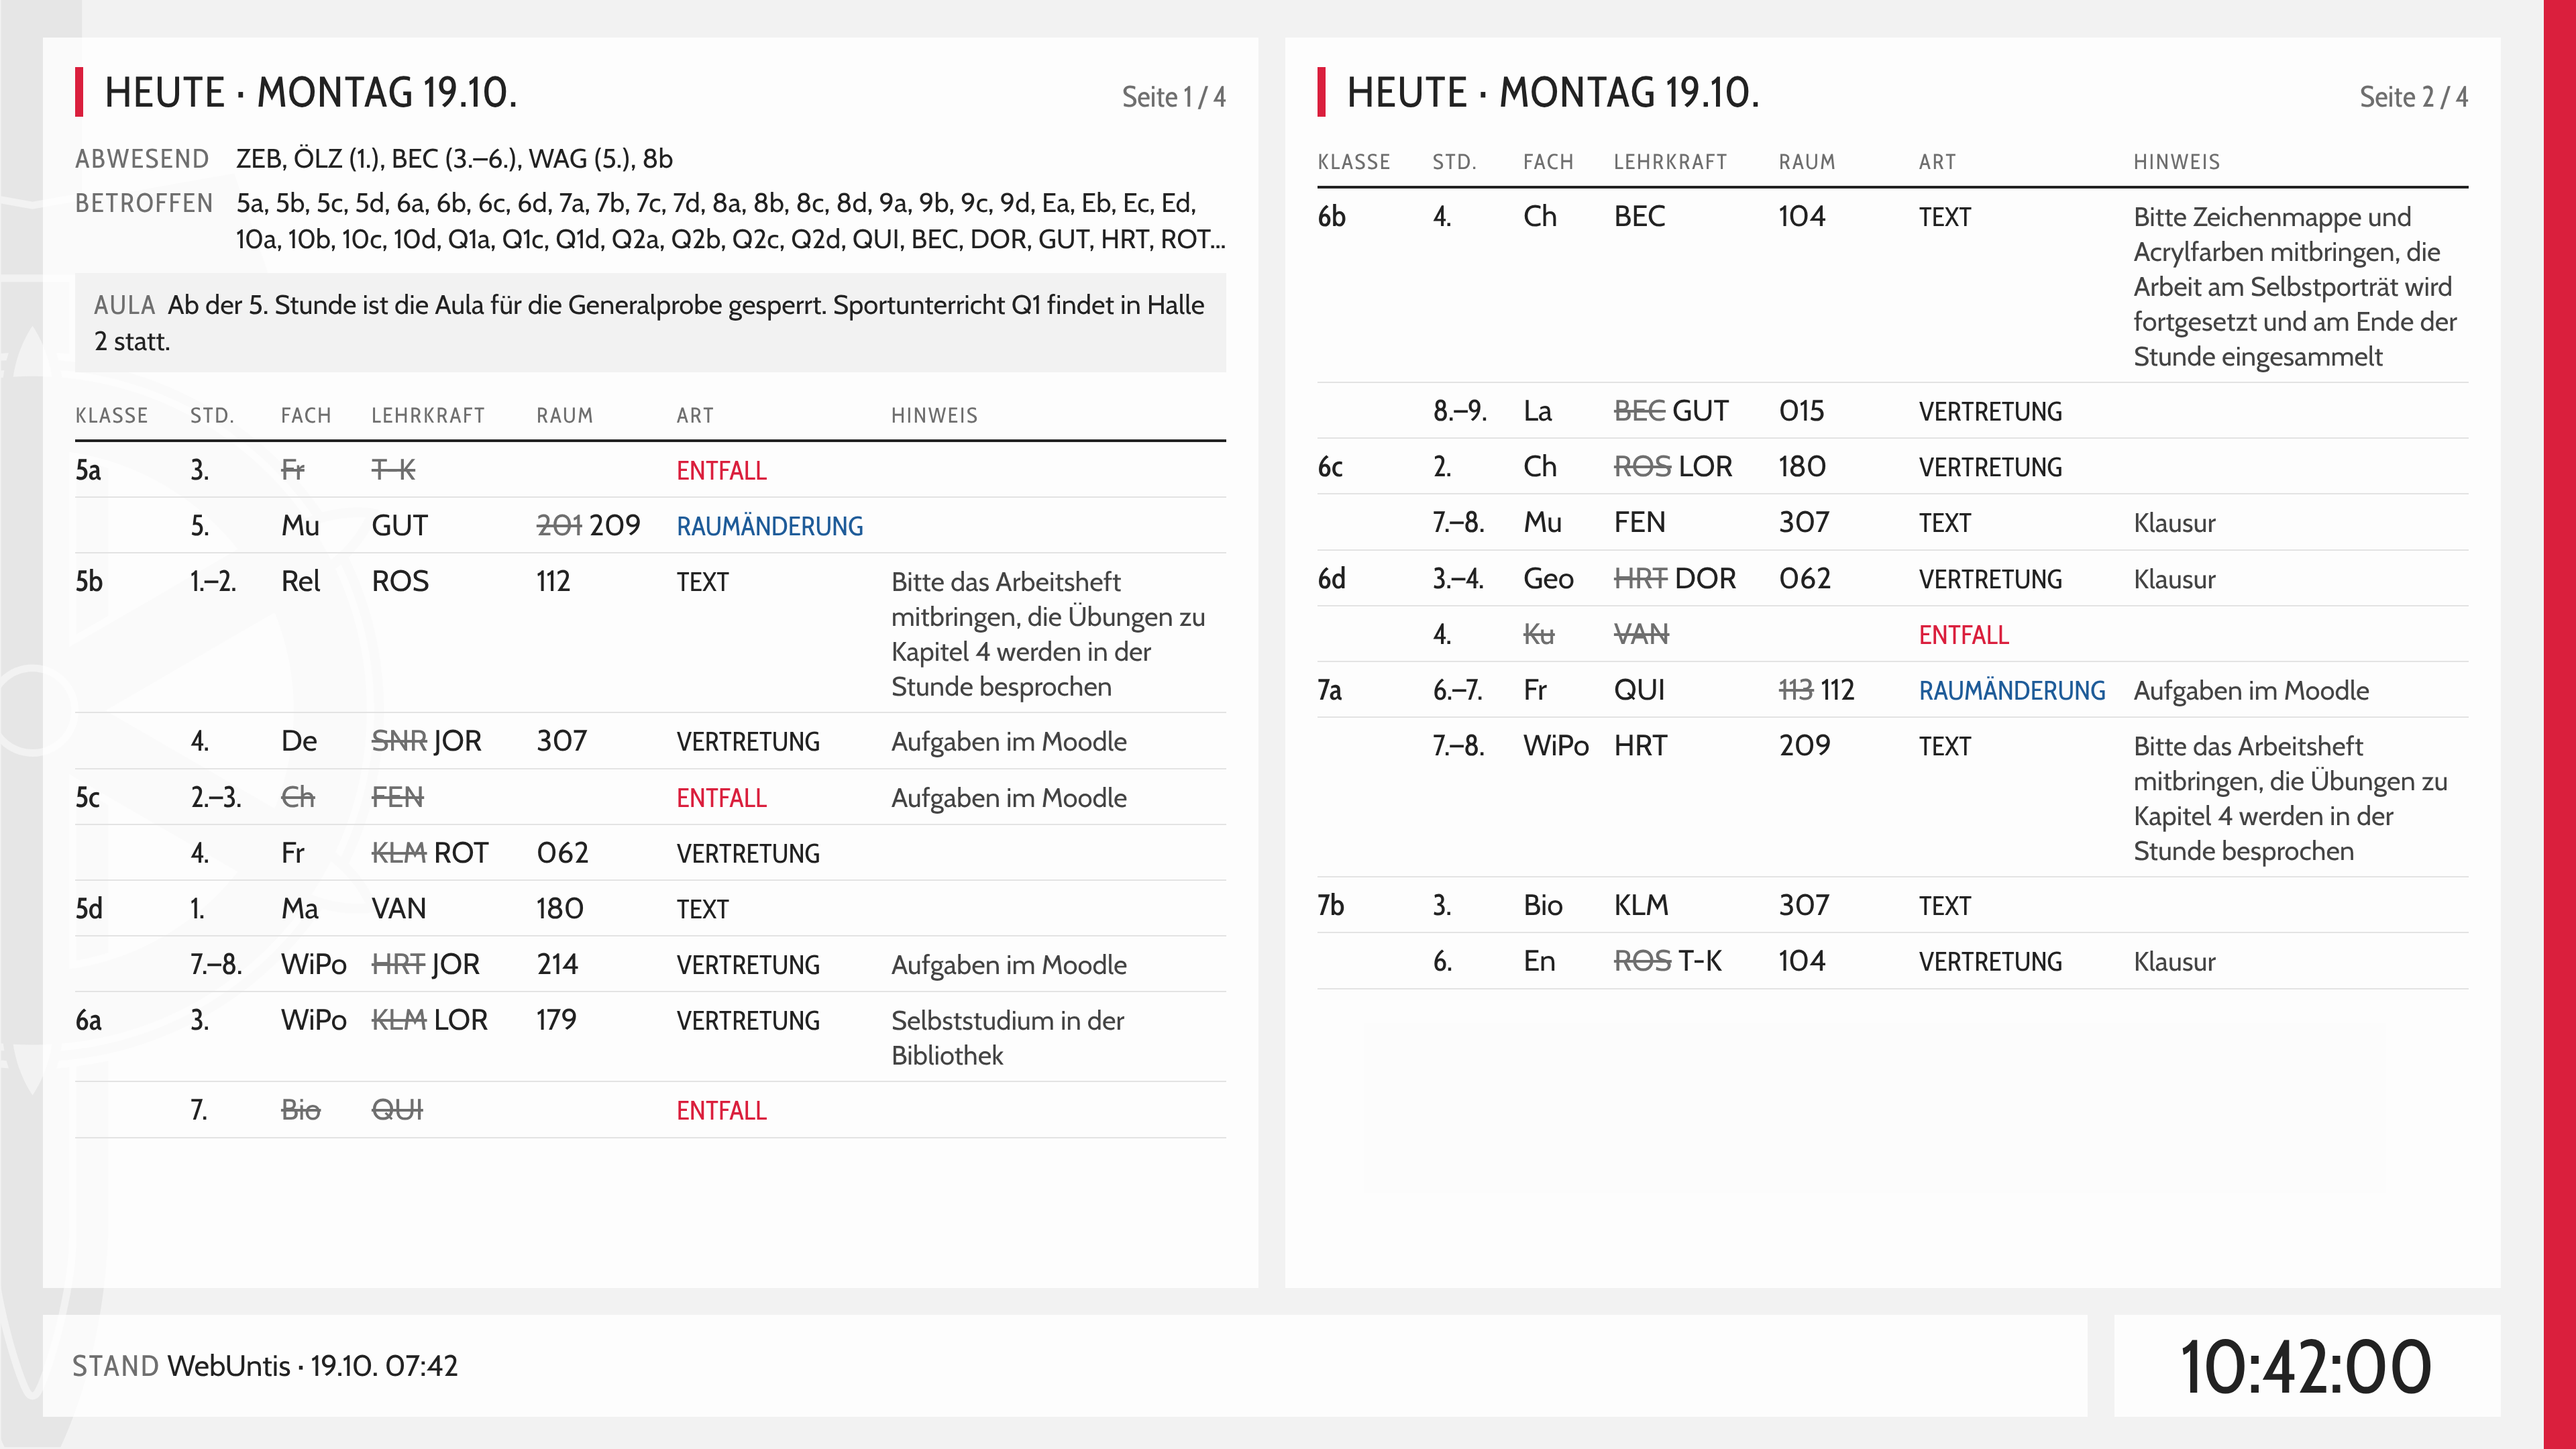
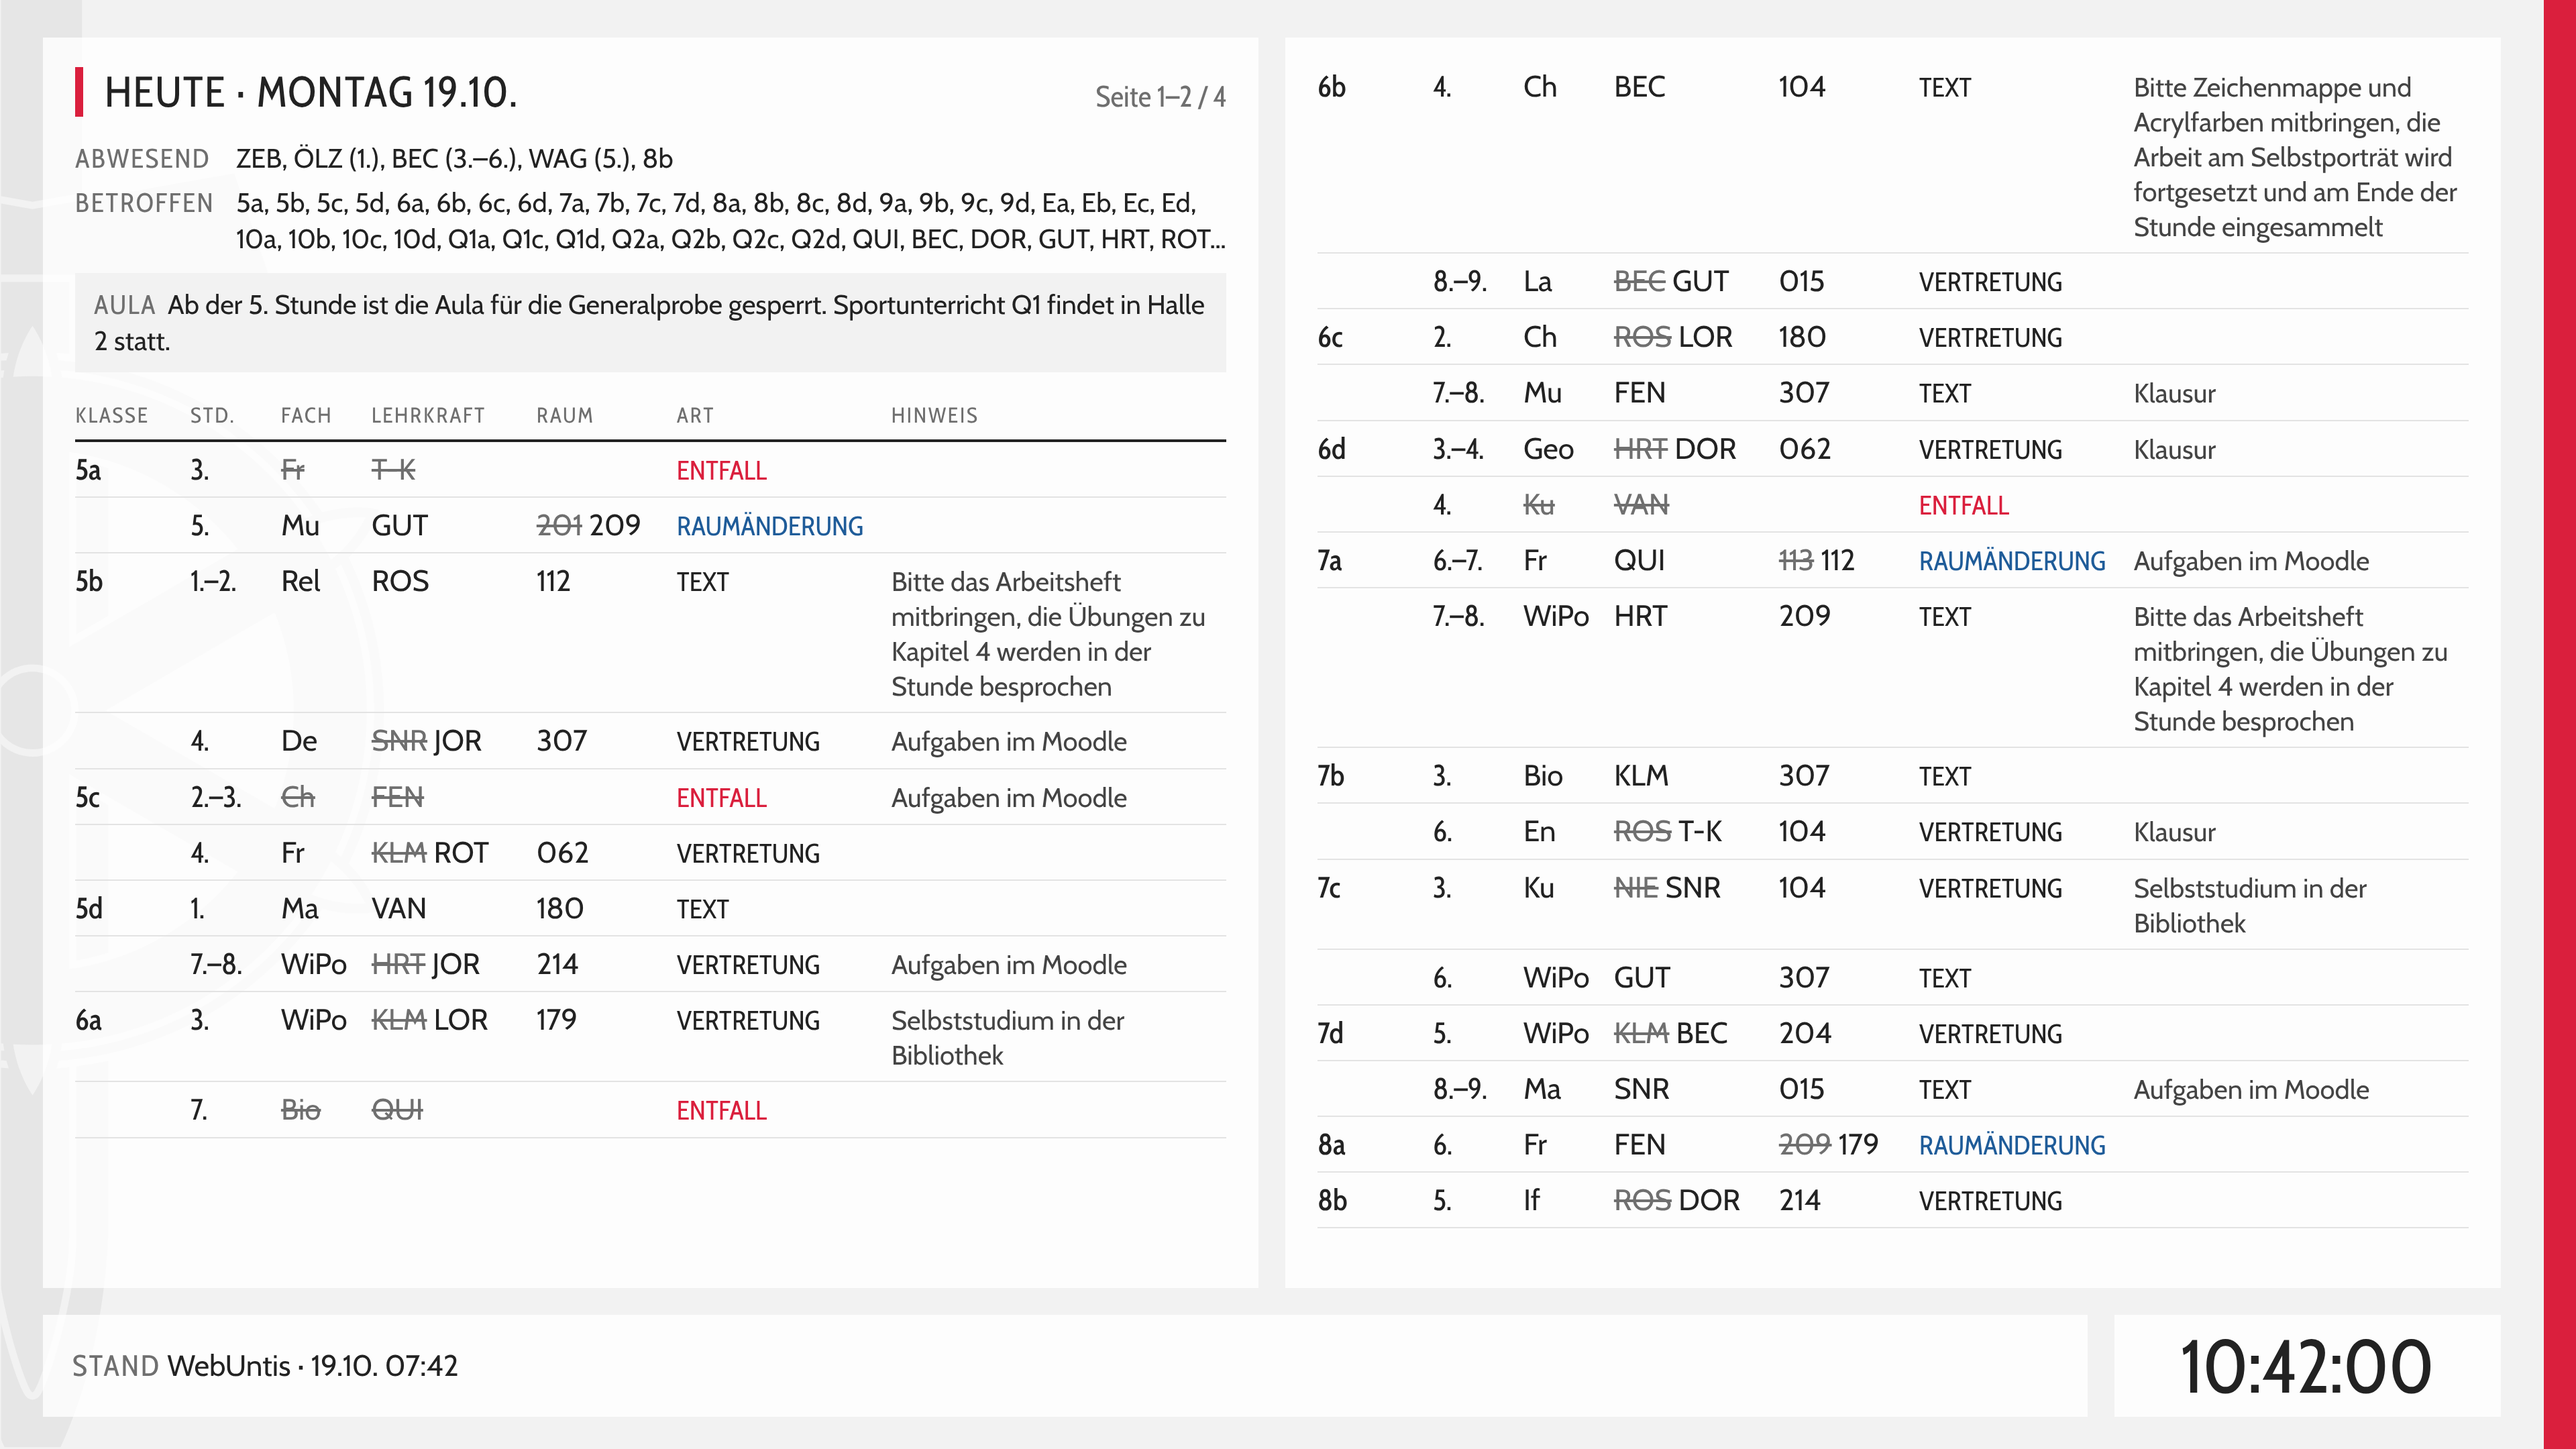
Overlaid split: the plan's footer spans the whole width
Claude-Session: https://claude.ai/code/session_01D7nDH9UeEyBKSeRzQw1WpF

diff --git a/frontend/src/components/signage/display/views/SubstitutionsExpand.test.jsx b/frontend/src/components/signage/display/views/SubstitutionsExpand.test.jsx
@@ -200,13 +200,13 @@ describe('Geteilt: Vertretungsplan überlagert Medien', () => {
     expect(el.textContent).toContain('Keine Medien.')
   })
 
-  it('die Fußzeile steht unter der linken Karte der Doppelseite (halbe Breite), nicht nach der Breite der geteilten Ansicht', () => {
+  it('beide Hälften Vertretungsplan: die Fußzeile geht über die ganze Breite, nicht nach der Breite der geteilten Ansicht', () => {
     const v = split(media, 10)
     v.data.left.data = { ...v.data.left.data, source: 'monitor', updated_at: '2026-10-19T07:42:00', fetched_at: '2026-10-19T07:45:00' }
     const el = render(show(v))
-    const grid = el.querySelector('.d-footer-row [style*="grid-template-columns"]')
-    expect(grid.style.gridTemplateColumns).toBe('calc(50cqw - 0.625rem) minmax(0, 1fr)')
-    expect(grid.firstElementChild.textContent).toContain('WebUntis')
+    expect(el.querySelector('.d-footer-row [style*="grid-template-columns"]')).toBeNull()
+    const full = el.querySelector('[data-split-footer="overlay"]')
+    expect(full.textContent).toContain('WebUntis')
   })
 
   it('Abfahrten als andere Seite bleiben immer stehen', () => {

diff --git a/frontend/src/components/signage/display/views/SplitView.jsx b/frontend/src/components/signage/display/views/SplitView.jsx
@@ -80,8 +80,8 @@ export default function SplitView({ view }) {
 function SplitFooter({ view }) {
   const data = view.data ?? {}
   const overlay = useOverlay(view.id)
-  // Overlaid: the plan's footer stands under the pair's first card (half the width), nothing beside it
-  const percent = overlay ? 50 : clampPercent(data.left_percent)
+  // Overlaid: both halves show the plan, so its footer spans the whole width
+  const percent = clampPercent(data.left_percent)
   let weatherShown = false
   const sides = overlay ? [data[overlay], null] : [data.left, data.right]
   const cells = sides.map((side) => {
@@ -93,6 +93,7 @@ function SplitFooter({ view }) {
     return <View.Footer view={{ ...sub, show_weather: showWeather }} />
   })
   if (!cells.some(Boolean)) return null
+  if (overlay) return <div data-split-footer="overlay" className="h-full min-w-0">{cells[0]}</div>
   return (
     <div className="grid h-full gap-[1.25rem]" style={{ gridTemplateColumns: `calc(${percent}cqw - 0.625rem) minmax(0, 1fr)` }}>
       <div className="min-w-0">{cells[0]}</div>

diff --git a/CLAUDE.md b/CLAUDE.md
@@ -48,7 +48,7 @@ ssh -o BatchMode=yes root@t410.de "bash /opt/stagedesk/scripts/deploy.sh"
 - Schrift der Anzeige: **Cabin** (CI, `@fontsource-variable/cabin`, lokal gebündelt). `.d-head` = schmale Breite (`font-stretch: 75%`), `.d-text` = normal. Cabin hat keine Ziffern gleicher Breite: laufende Uhren bekommen `.d-clock`, sonst verschiebt sich daneben stehender Inhalt im Sekundentakt. Nur die beiden Sekundenziffern stehen in einem festen Feld (`.d-clock-sec`, 1,22 em wie „00“, darin linksbündig mit normalem Abstand), so rückt beim Sekundenwechsel nichts davor; der Rest der Uhrzeit hat seine natürliche Breite und wird normal ausgerichtet (in Kästen mittig) und verschiebt sich höchstens einmal pro Minute. Pro Ansicht „Sekunden anzeigen“ (`clock_seconds`, Standard an, Migration `signage` 0055, Rückweg `migrate signage 0054`; alte Daten ohne Feld zeigen Sekunden).
 - Screenshots: `node frontend/scripts/shoot-display.mjs` bzw. `shoot-admin.mjs` (headless Chromium mit `--headless=new`, Testdaten in `frontend/tests/signage/display-fixtures/` bzw. `admin-fixtures/`).
 - Bezeichner-Guard: `python3 -I scripts/check-signage-identifiers.py` (ohne Argumente prüft alles; Code englisch, Exit 0 nötig).
-- **Vertretungsplan-Quellen**: „WebUntis-Vertretungsplan“ (öffentlicher Monitor-Endpunkt, kein Konto), „WebUntis-Konto“, „WebUntis-Seite einbetten“; bei Ausfall automatisch in dieser Reihenfolge weiter (kein Hinweis auf dem Bildschirm; aktive Quelle in den Einstellungen unter „Verbindung testen“). Ausgabe-Voreinstellungen `vplan-schueler`, `vplan-schueler-1`, `vplan-lehrer`, `custom`. Zwei Tage stehen nebeneinander, in einer Fläche höher als breit (Hochformat) untereinander, wenn jeder Tag mindestens 30 rem hoch wird; in schmalen niedrigen Flächen nacheinander. Der Typ einer Ansicht ist änderbar. In der Tabelle bleibt ein ersetzter Wert nur mit dem ersten kurzen Wort des neuen zusammen (`~~209~~ 204`), der Rest bricht in der Spalte um (auch nach „/“, notfalls mitten im Wort); bei Entfall ist das Fach durchgestrichen. „Bei vielen Vertretungen ganze Breite für heute“ (`substitutions_expand_pages` 0 = aus, 2 bis 4; Migration `signage` 0056, Rückweg `migrate signage 0055`): hat heute auf diesem Bildschirm mehr Seiten, zeigen beide Hälften heute als Doppelseite (1|2, 3|4, …, ein Blättertakt; die rechte Karte nur mit Titel und den Seiten der linken). Ersetzt „Morgen“ (zwei Tage neben- oder untereinander) bzw. in einer geteilten Ansicht eine Medien- oder Ankündigungen-Seite (halb-halb, Breite zählt nicht); Abfahrten nie. Entschieden wird im Bildschirm nach der gezeigten Seitenzahl (`lib/expand.js`, nur gemessene Seiten melden, sonst Endlosschleife); eine geteilte Seite unter 50 % rechnet beim Zurückschalten auf ihre Breite hoch (`staysExpanded`).
+- **Vertretungsplan-Quellen**: „WebUntis-Vertretungsplan“ (öffentlicher Monitor-Endpunkt, kein Konto), „WebUntis-Konto“, „WebUntis-Seite einbetten“; bei Ausfall automatisch in dieser Reihenfolge weiter (kein Hinweis auf dem Bildschirm; aktive Quelle in den Einstellungen unter „Verbindung testen“). Ausgabe-Voreinstellungen `vplan-schueler`, `vplan-schueler-1`, `vplan-lehrer`, `custom`. Zwei Tage stehen nebeneinander, in einer Fläche höher als breit (Hochformat) untereinander, wenn jeder Tag mindestens 30 rem hoch wird; in schmalen niedrigen Flächen nacheinander. Der Typ einer Ansicht ist änderbar. In der Tabelle bleibt ein ersetzter Wert nur mit dem ersten kurzen Wort des neuen zusammen (`~~209~~ 204`), der Rest bricht in der Spalte um (auch nach „/“, notfalls mitten im Wort); bei Entfall ist das Fach durchgestrichen. „Bei vielen Vertretungen ganze Breite für heute“ (`substitutions_expand_pages` 0 = aus, 2 bis 4; Migration `signage` 0056, Rückweg `migrate signage 0055`): hat heute auf diesem Bildschirm mehr Seiten, zeigen beide Hälften heute als Doppelseite (1|2, 3|4, …, ein Blättertakt; links „Seite 1–2 / n“, die rechte Karte nur mit Zeilen ohne Titel und Spaltenköpfe und so vielen Zeilen, wie in ihre Höhe passen, `paginatePair`; entschieden wird weiter nach der Seitenzahl einer einzelnen Karte). Ersetzt „Morgen“ (zwei Tage neben- oder untereinander) bzw. in einer geteilten Ansicht eine Medien- oder Ankündigungen-Seite (halb-halb, Breite zählt nicht); Abfahrten nie; die Fußzeile geht dann über die ganze Breite (`lib/overlay.js`). Entschieden wird im Bildschirm nach der gezeigten Seitenzahl (`lib/expand.js`, nur gemessene Seiten melden, sonst Endlosschleife); eine geteilte Seite unter 50 % rechnet beim Zurückschalten auf ihre Breite hoch (`staysExpanded`).
 - **Abfahrten-Monitor**: feste Spalten (`transit_columns` 1 bis 5, Standard 4; pro Haltestelle `column`, `split_modes` = "Busse und Züge getrennt"), Haltestellen einer Spalte teilen die Höhe, Überhang wird abgeschnitten. `transit_strip_city` = "Ortsnamen kürzen" (Standard an). Zeitangabe pro Ansicht Minuten/Uhrzeit/Gemischt (bis 20 min Minuten): Minuten zählen bis zur tatsächlichen Abfahrt (Verspätung eingerechnet, kein "+N"), Uhrzeit bleibt die geplante mit "+N" daneben; sichtbar nur Abfahrten ab jetzt + Fußweg, ohne Echtzeit weg 1 min nach Plan. Störungen (`transit_show_disruptions`, blättern im Blättertakt) in eigener Spalte rechts oder per `transit_disruption_column` unter den Haltestellen einer Abfahrten-Spalte; Bilder volle Breite, Text ungekürzt. Fußweg, Spalte, Busse/Züge getrennt und Anzahl wirken pro Abruf in `display.py`, ohne neuen Abruf; die Vorschau speichert Abrufe nach ihren Eingaben (60 s, Störungen 300 s). Quelle pro Haltestelle (`source`: leer = Automatisch, `db`, `nahsh`, `both`; Editor zeigt "Quelle: …"): Automatisch fragt die DB nur für Bahnhofsnummern (EVA 80xxxxx) mit NAH.SH als Ersatz, sonst NAH.SH; die Schalter unter "Erweitert" gelten nur für Automatisch. Kein Quellen-Hinweis in der Fußzeile. Quelle `openboards` = „DB OpenBoards“ (`backend/signage/transit/openboards.py`, gleiche DB-Zugangsdaten, Abo im DB API Marketplace nötig): nur Bahn inkl. SEV (`replacementTransport` → Zeile „SEV <Linie>“, `rail_replacement`, folgt dem Zug-Filter), Umsteigebereich der API eingeschlossen; die API liefert je Abfrage 30 min, daher bis zu 4 Fenster nacheinander (Limit 10 Abfragen/s). Testdaten `backend/signage/fixtures_transit/`. Haltestellensuche im Editor mit „Suchen in: Beide/Deutsche Bahn/NAH.SH“ (`use_db`/`use_nahsh`), jeder Treffer nennt seine Quelle; ein Treffer aus nur einem System setzt die Quelle der Haltestelle fest darauf. `GET /transit/status` (`signage.setup`) sagt nur, ob der DB-Zugang eingerichtet ist; ohne ihn fehlt „Deutsche Bahn“ in der Suche, „Quelle: …“ nennt es (nur im Admin, nie auf dem Bildschirm). Speichern verwirft den Abfahrten-Zwischenspeicher nur bei geänderten Haltestellen, Filtern oder Quellen; pro Ansicht läuft höchstens ein Abruf gleichzeitig. SEV-Busse folgen dem Zug-Filter der Haltestelle. Bei Minuten/Gemischt sortiert nach tatsächlicher Abfahrt, bei Uhrzeit nach Plan. Pro Haltestelle werden mindestens 50 Abfahrten abgerufen (Fußweg filtert danach). Fällt eine Quelle für eine Haltestelle kurz aus, bleiben deren letzte Abfahrten bis 10 min stehen. Fußweg mit Symbol; eine Störung, die höher als die Spalte ist, scrollt im Blättertakt. Gleise brauchen `DB_TT_CLIENT_ID` und `DB_TT_API_KEY`; am Hbf "Lübeck Hbf" als DB-Haltestelle (nur Züge) unter "ZOB/Hauptbahnhof" in dieselbe Spalte. Migrationen `signage` 0047 und 0048, Rückweg `migrate signage 0046`: Spaltenzahl bleibt erhalten; Spalte je Haltestelle und Ortsnamen kürzen werden ignoriert (`DEPLOY.md`).
 - **Zeitplan**: pro Bildschirm eine Liste (Tage, von, bis, Ansicht oder Standard-Ansicht); außerhalb der Zeilen ist der Bildschirm aus. Recht `signage.power`. Kein `power_schedule` mehr (ab Migration 0045).
 - **Geteilte Ansicht**: Seiten Vertretungsplan, Abfahrten oder Medien (`split_left`/`split_right` = `media`, Migration `signage` 0050; Rückweg `migrate signage 0049`, Seiten mit Medien bleiben dann leer). Die Medien kommen aus derselben Ansicht (`media_items`, Seitentakt), angezeigt über `MediaView.Pane` ohne eigene Uhr. Seite Ankündigungen (`info`, Migration `signage` 0053; Rückweg `migrate signage 0052`, Seiten mit Ankündigungen bleiben dann leer): Ankündigungen und Termine der Ansicht wie in Info, untereinander. Seiten im Editor als Auswahlliste. Seite **Karte** (`map`, Migration `signage` 0054; Rückweg `migrate signage 0053`, Seiten mit Karte bleiben dann leer): Live-Busse auf OpenStreetMap (Kacheln direkt von tile.openstreetmap.org, Hinweis „© OpenStreetMap-Mitwirkende“, im dunklen Schema invertiert). Positionen von NAH.SH `JourneyGeoPos` (`backend/signage/transit/vehicles.py`, aus Fahrplan und Verspätung berechnet, keine GPS-Daten; je Antwort 30 s voraus in 5-s-Schritten, die der Bildschirm animiert). Der Bildschirm lädt sie selbst alle 15 s über `GET /api/signage/display/vehicles?bbox=Süd,West,Nord,Ost` (öffentlich, höchstens 0,4° je Seite, Zwischenspeicher 15 s auf einem 0,005°-Raster). Einstellungen `map_center` („Breite, Länge“, Standard Katharinenkirche 53.8699, 10.6892), `map_zoom` 13 bis 17, `map_all_lines` (sonst nur Linien an den Haltestellen der Ansicht; ohne Haltestellen alle). Testdaten `fixtures_transit/nahsh_journey_geopos.json`; Screenshot-Kacheln über `SHOOT_TILE_DIR`, sonst grau. Klausur oder On-Air „Geteilt“ auf einer geteilten Ansicht ersetzen die Seite, die bei ihnen eingestellt ist; daneben steht nur die andere Seite in der üblichen Aufteilung (Breite der Ansicht zählt dann nicht; `remainingView` in `DisplayRoot.jsx`).
